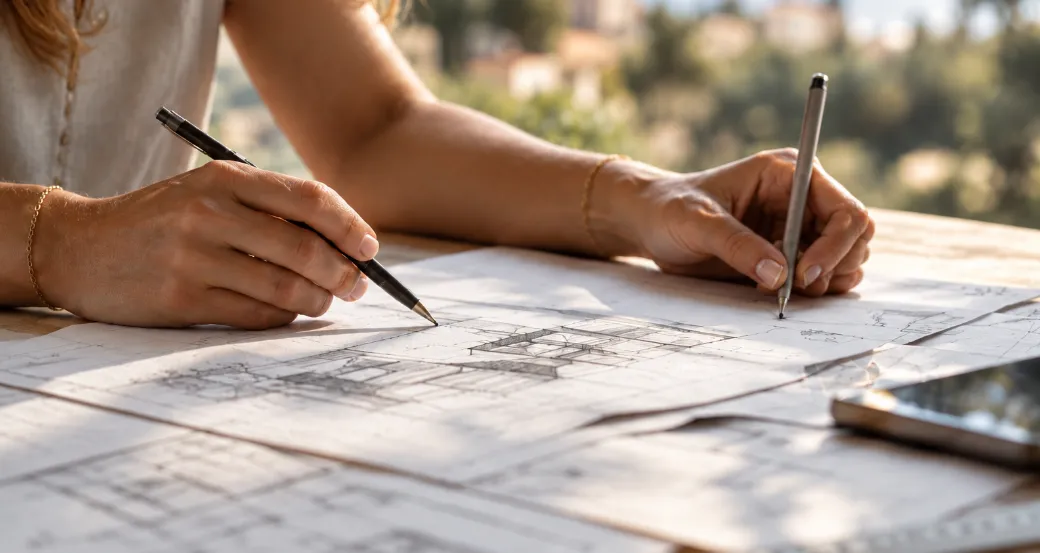
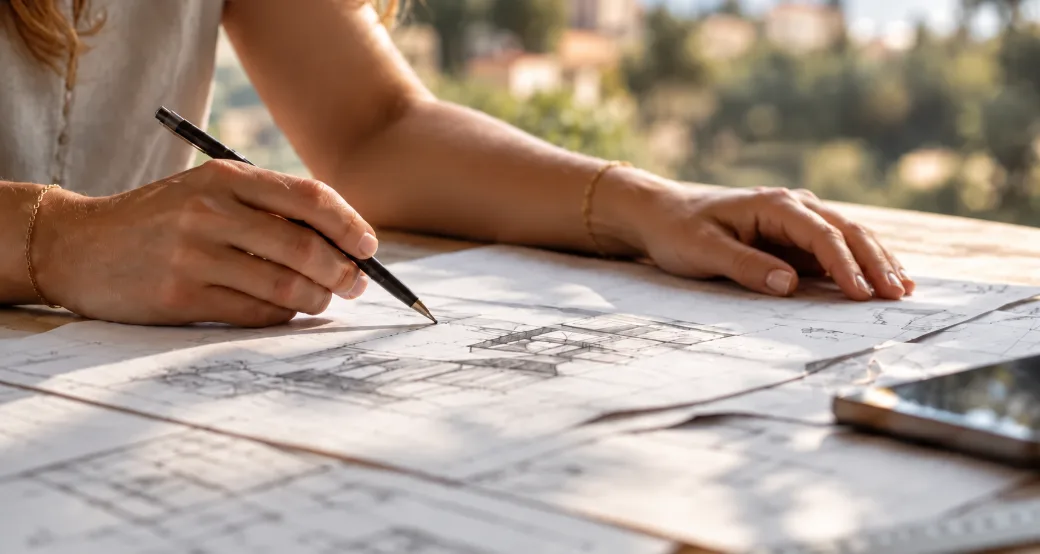
Add files via upload

diff --git a/index.html b/index.html
@@ -33,9 +33,9 @@
 <link rel="preload" as="image" href="assets/img/hero-deux-mondes-1672.webp" imagesrcset="assets/img/hero-deux-mondes-960.webp 960w, assets/img/hero-deux-mondes-1672.webp 1672w" imagesizes="100vw" fetchpriority="high">
 <link rel="stylesheet" href="assets/css/tokens.css?v=18">
 <link rel="stylesheet" href="assets/css/styles.css?v=18">
-<link rel="stylesheet" href="assets/css/site.css?v=19">
+<link rel="stylesheet" href="assets/css/site.css?v=22">
 <script>document.documentElement.className = 'js';</script>
-<script src="assets/js/site.js?v=19" defer></script>
+<script src="assets/js/site.js?v=21" defer></script>
 <script type="application/ld+json">{"@context":"https://schema.org","@type":"Person","name":"Valéria Denisova","jobTitle":"Architecte inscrite à l’Ordre des architectes – PACA","address":{"@type":"PostalAddress","addressLocality":"Beausoleil","addressCountry":"FR"},"knowsLanguage":["fr","en","ru"],"sameAs":["https://www.linkedin.com/in/val%C3%A9ria-denisova-952bab49"],"url":"https://vda-six.vercel.app/"}</script>
 </head>
 <body class="vd">
@@ -250,27 +250,28 @@
       </div>
     </div>
   </div>
-  <div class="vd-about-values-wrap" id="valeurs">
-    <h3 class="vd-about-label" id="h-about-valeurs">MES VALEURS AU SERVICE DE VOS PROJETS</h3>
-    <ul class="vd-about-values" aria-labelledby="h-about-valeurs">
-      <li><img src="assets/img/about-icon-humain.png" width="160" height="160" alt=""><h4>HUMAIN</h4><p>Placer l’usager au cœur de chaque projet.</p></li>
-      <li><img src="assets/img/about-icon-durable.png" width="160" height="160" alt=""><h4>DURABLE</h4><p>Faire évoluer les lieux avec responsabilité, dans le respect de leur identité et de leur environnement.</p></li>
-      <li><img src="assets/img/about-icon-innovant.png" width="160" height="160" alt=""><h4>INNOVANT</h4><p>Rechercher des solutions pertinentes, adaptées aux usages et aux contraintes de chaque projet.</p></li>
-      <li><img src="assets/img/about-icon-collaboratif.png" width="160" height="160" alt=""><h4>COLLABORATIF</h4><p>Construire ensemble, avec écoute et exigence.</p></li>
-      <li class="vd-about-sign"><p>Une architecture attentive aux personnes, aux usages et à l’identité des lieux.</p><span>VALÉRIA DENISOVA</span></li>
-    </ul>
-  </div>
 </section>
 
-<section id="demarche" class="vd-section vd-demarche" style="padding-top:0" aria-labelledby="h-demarche">
+<section id="demarche" class="vd-section vd-demarche vd-demarche--merged" aria-labelledby="h-demarche">
   <div class="vd-container">
+    <div class="vd-about-values-wrap" id="valeurs">
+      <h3 class="vd-about-label" id="h-about-valeurs">MES VALEURS AU SERVICE DE VOS PROJETS</h3>
+      <ul class="vd-about-values" aria-labelledby="h-about-valeurs">
+        <li><img src="assets/img/about-icon-humain.png" width="160" height="160" alt=""><h4>HUMAIN</h4><p>Placer l’usager au cœur de chaque projet.</p></li>
+        <li><img src="assets/img/about-icon-durable.png" width="160" height="160" alt=""><h4>DURABLE</h4><p>Faire évoluer les lieux avec responsabilité, dans le respect de leur identité et de leur environnement.</p></li>
+        <li><img src="assets/img/about-icon-innovant.png" width="160" height="160" alt=""><h4>INNOVANT</h4><p>Rechercher des solutions pertinentes, adaptées aux usages et aux contraintes de chaque projet.</p></li>
+        <li><img src="assets/img/about-icon-collaboratif.png" width="160" height="160" alt=""><h4>COLLABORATIF</h4><p>Construire ensemble, avec écoute et exigence.</p></li>
+        <li class="vd-about-sign"><p>Une architecture attentive aux personnes, aux usages et à l’identité des lieux.</p><span>VALÉRIA DENISOVA</span></li>
+      </ul>
+    </div>
+    <span class="vd-demarche-sep" aria-hidden="true"></span>
     <h2 class="vd-demarche-label" id="h-demarche">NOTRE DÉMARCHE</h2>
     <ol class="vd-demarche-steps">
       <li class="vd-demarche-step">
         <span class="vd-demarche-num" aria-hidden="true">01</span>
         <h3 class="vd-demarche-step-title"><span class="sr-only">01 – </span>ÉCOUTER</h3>
         <p class="vd-demarche-lines">Les personnes<br>Les usages<br>Le contexte</p>
-        <div class="vd-demarche-media"><img src="assets/img/demarche-01-ecouter-520.webp" srcset="assets/img/demarche-01-ecouter-520.webp 520w, assets/img/demarche-01-ecouter-1040.webp 1040w" sizes="(max-width: 720px) 100vw, (max-width: 1099px) 50vw, 260px" width="520" height="277" loading="lazy" decoding="async" alt="Mains dessinant sur des plans d’architecture"></div>
+        <div class="vd-demarche-media"><img src="assets/img/demarche-01-ecouter-520.webp?v=2" srcset="assets/img/demarche-01-ecouter-520.webp?v=2 520w, assets/img/demarche-01-ecouter-1040.webp?v=2 1040w" sizes="(max-width: 720px) 100vw, (max-width: 1099px) 50vw, 260px" width="520" height="277" loading="lazy" decoding="async" alt="Mains dessinant sur des plans d’architecture"></div>
       </li>
       <li class="vd-demarche-step">
         <span class="vd-demarche-num" aria-hidden="true">02</span>

diff --git a/assets/css/site.css b/assets/css/site.css
@@ -667,3 +667,27 @@ a.vd-xp2-link:hover::after { width: 100%; }
 @media (min-width: 1280px) and (max-width: 1399px) {
   .vd-about-col p, .vd-about-col p b, .vd-about-col p span, .vd-about-col li { font-size: 13px; }
 }
+
+/* Logo « retour en haut » – visible dans la barre à partir du 2e écran */
+@media (min-width: 1100px) {
+  .site-header .vd-nav { grid-template-columns: minmax(0,1fr) auto minmax(0,1fr); column-gap: clamp(32px, 3.4vw, 64px); }
+  .site-header .vd-logo { display: flex; flex-direction: row; gap: 12px; min-height: 44px; opacity: 0; visibility: hidden; transform: translateY(-6px); transition: opacity .35s ease, transform .35s ease, visibility 0s linear .35s; }
+  .site-header .vd-logo img { width: 44px; }
+  .site-header .vd-logo-txt { justify-items: start; }
+  .site-header.is-past-hero .vd-logo { opacity: 1; visibility: visible; transform: none; transition: opacity .35s ease, transform .35s ease, visibility 0s; }
+}
+@media (min-width: 1100px) and (prefers-reduced-motion: reduce) { .site-header .vd-logo { transition: none !important; transform: none; } }
+
+/* Valeurs + Notre démarche = un seul bloc */
+.vd-demarche--merged { padding-top: var(--space-14); }
+.vd-demarche--merged .vd-about-values-wrap { max-width: none; margin: 0; padding: 0; color: var(--ink); }
+.vd-demarche--merged .vd-about-values-wrap .vd-about-label { margin: 0 0 var(--space-8); }
+.vd-demarche-sep { display: block; height: 1px; background: var(--line); margin: var(--space-10) 0; }
+.vd-about { padding-bottom: var(--space-14); }
+@media (min-width: 1100px) {
+  .vd-demarche--merged { padding-top: var(--space-6); padding-bottom: var(--space-10); }
+  .vd-demarche--merged .vd-about-values-wrap .vd-about-label { margin-bottom: var(--space-6); }
+  .vd-demarche-sep { margin: var(--space-8) 0; }
+  .vd-demarche--merged .vd-demarche-label { margin-bottom: var(--space-6); }
+}
+@media (max-width: 720px) { .vd-demarche--merged { padding-top: var(--space-8); } .vd-demarche-sep { margin: var(--space-8) 0; } }

diff --git a/ru/index.html b/ru/index.html
@@ -34,9 +34,9 @@
 <link rel="preload" as="image" href="../assets/img/hero-deux-mondes-1672.webp" imagesrcset="../assets/img/hero-deux-mondes-960.webp 960w, ../assets/img/hero-deux-mondes-1672.webp 1672w" imagesizes="100vw" fetchpriority="high">
 <link rel="stylesheet" href="../assets/css/tokens.css?v=18">
 <link rel="stylesheet" href="../assets/css/styles.css?v=18">
-<link rel="stylesheet" href="../assets/css/site.css?v=19">
+<link rel="stylesheet" href="../assets/css/site.css?v=21">
 <script>document.documentElement.className = 'js';</script>
-<script src="../assets/js/site.js?v=19" defer></script>
+<script src="../assets/js/site.js?v=21" defer></script>
 <script type="application/ld+json">{"@context":"https://schema.org","@type":"Person","name":"Valéria Denisova","alternateName":"Валерия Денисова","jobTitle":"Архитектор, член Ордена архитекторов Франции – PACA","address":{"@type":"PostalAddress","addressLocality":"Beausoleil","addressCountry":"FR"},"knowsLanguage":["fr","en","ru"],"sameAs":["https://www.linkedin.com/in/val%C3%A9ria-denisova-952bab49"],"url":"https://vda-six.vercel.app/ru"}</script>
 </head>
 <body class="vd">

diff --git a/assets/js/site.js b/assets/js/site.js
@@ -105,3 +105,19 @@
       .then(function () { btn.disabled = false; btn.textContent = MSG.send; });
   });
 })();
+
+/* logo = retour en haut ; affiché dans la barre après le 1er écran */
+(function () {
+  var header = document.getElementById('site-header'), hero = document.getElementById('accueil');
+  if (!header) return;
+  function upd() { var lim = hero ? hero.offsetHeight - header.offsetHeight : window.innerHeight * 0.9; header.classList.toggle('is-past-hero', window.scrollY > lim); }
+  window.addEventListener('scroll', upd, { passive: true }); window.addEventListener('resize', upd); upd();
+  document.querySelectorAll('a.vd-logo').forEach(function (a) {
+    a.addEventListener('click', function (e) {
+      e.preventDefault();
+      var reduce = matchMedia('(prefers-reduced-motion: reduce)').matches;
+      window.scrollTo({ top: 0, behavior: reduce ? 'auto' : 'smooth' });
+      if (history.replaceState) history.replaceState(null, '', location.pathname + location.search);
+    });
+  });
+})();
